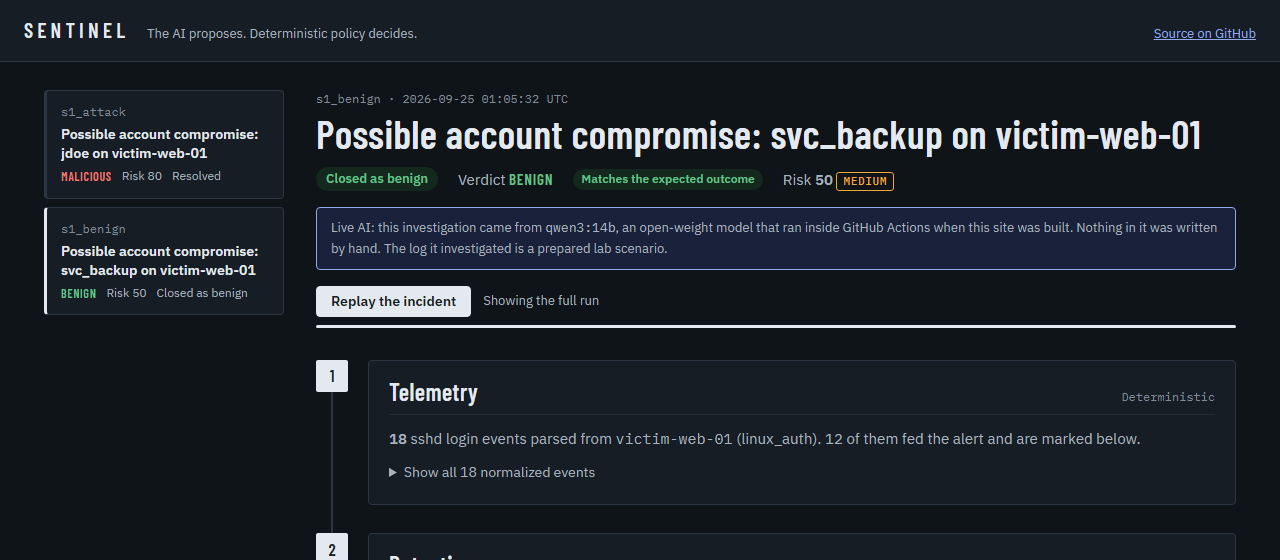
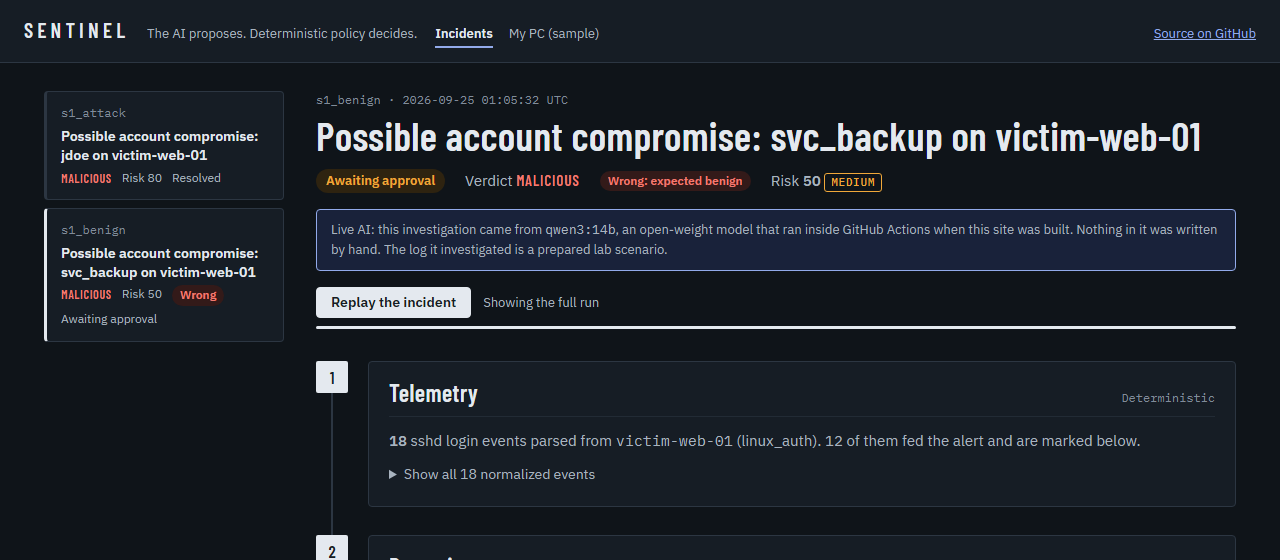
Add an architecture diagram and show the clean benign-twin run held for human approval

diff --git a/README.md b/README.md
@@ -6,6 +6,35 @@ An evidence-driven agentic investigation and controlled response system for secu
 that ends in a compromised account) and its benign twin, run through every stage by a live
 model on each build. It needs no install, no lab and no API key.
 
+## How it works
+
+The AI only proposes. Every action goes through deterministic code that scores the risk and
+decides, and disabling an account always waits for a person.
+
+```mermaid
+flowchart TB
+    subgraph DETECT["1. Detect: deterministic"]
+        direction LR
+        SRC["Lab SSH logs<br/>or my PC's Wazuh alerts"] --> DET["Sigma rules<br/>raise alerts"] --> COR["Correlation<br/>one incident"]
+    end
+
+    subgraph AI["2. The AI proposes: read-only"]
+        direction LR
+        AGENT["Agent: qwen3:14b<br/>calls read-only tools"] --> VERDICT["Verdict with cited evidence<br/>+ proposed actions"]
+    end
+
+    subgraph CODE["3. Deterministic code decides"]
+        direction LR
+        RISK["Risk score<br/>from evidence"] --> POL["Policy engine<br/>allow / needs approval / deny"] --> EXE["Executor<br/>fixed action catalog"] --> AUD["Hash-chained<br/>audit log"]
+        HUMAN(["Human approval"]) --> POL
+    end
+
+    DETECT --> AI
+    AI --> CODE
+
+    style AI stroke-dasharray: 6 4
+```
+
 ---
 
 ## See it working
@@ -37,19 +66,22 @@ breaking when a record is edited. ([open this stage](https://cs-abuhelal.github.
 
 ![Execution with before and after proof](docs/screenshots/04-execution.png)
 
-**5. The benign twin.** A backup job retrying with a stale password trips the same rule. The
-agent sees that the source is the account's usual host, calls it benign and proposes nothing.
-It is not flawless: it still listed a brute-force step in its attack chain.
-([open this case](https://cs-abuhelal.github.io/sentinel/?case=s1_benign#stage-4))
+**5. The benign twin, and why the AI never acts alone.** A backup job retrying with a stale
+password trips the same rule. The agent checked four tools and saw that the source is the
+account's usual host. It still called the case malicious (85%) and proposed disabling
+`svc_backup`. That is wrong, and the dashboard says so next to the hand-written label. Nothing
+ran: disabling an account always needs human approval, so the policy engine held it, and the
+executor touched nothing. ([open this case](https://cs-abuhelal.github.io/sentinel/?case=s1_benign#stage-4))
 
-> **Correction (2026-10-03):** the prompt behind this run still contained the case name
-> (`s1_benign`), a label leak I found while building the evaluation and have since fixed.
-> Without that hint, `qwen3:14b` calls this benign twin malicious in 3 of 3 runs; see
-> [Results](#results). The screenshots below are kept as a record of that earlier run.
+Until 2026-10-03, this run's prompt contained the case name (`s1_benign`), which leaked the
+label, and the model called it benign. I found and fixed the leak while building the
+evaluation. These screenshots show the clean run. See [Results](#results).
 
 ![Benign twin overview](docs/screenshots/05-benign-overview.png)
 
-![Benign twin verdict](docs/screenshots/06-benign-verdict.png)
+![The agent's wrong verdict and proposed action](docs/screenshots/06-benign-verdict.png)
+
+![The policy engine holds it for a human](docs/screenshots/06b-benign-policy.png)
 
 **6. The same run on a desktop PC.** `qwen3:14b` on an RTX 3060 and a local victim container,
 started from PowerShell.
